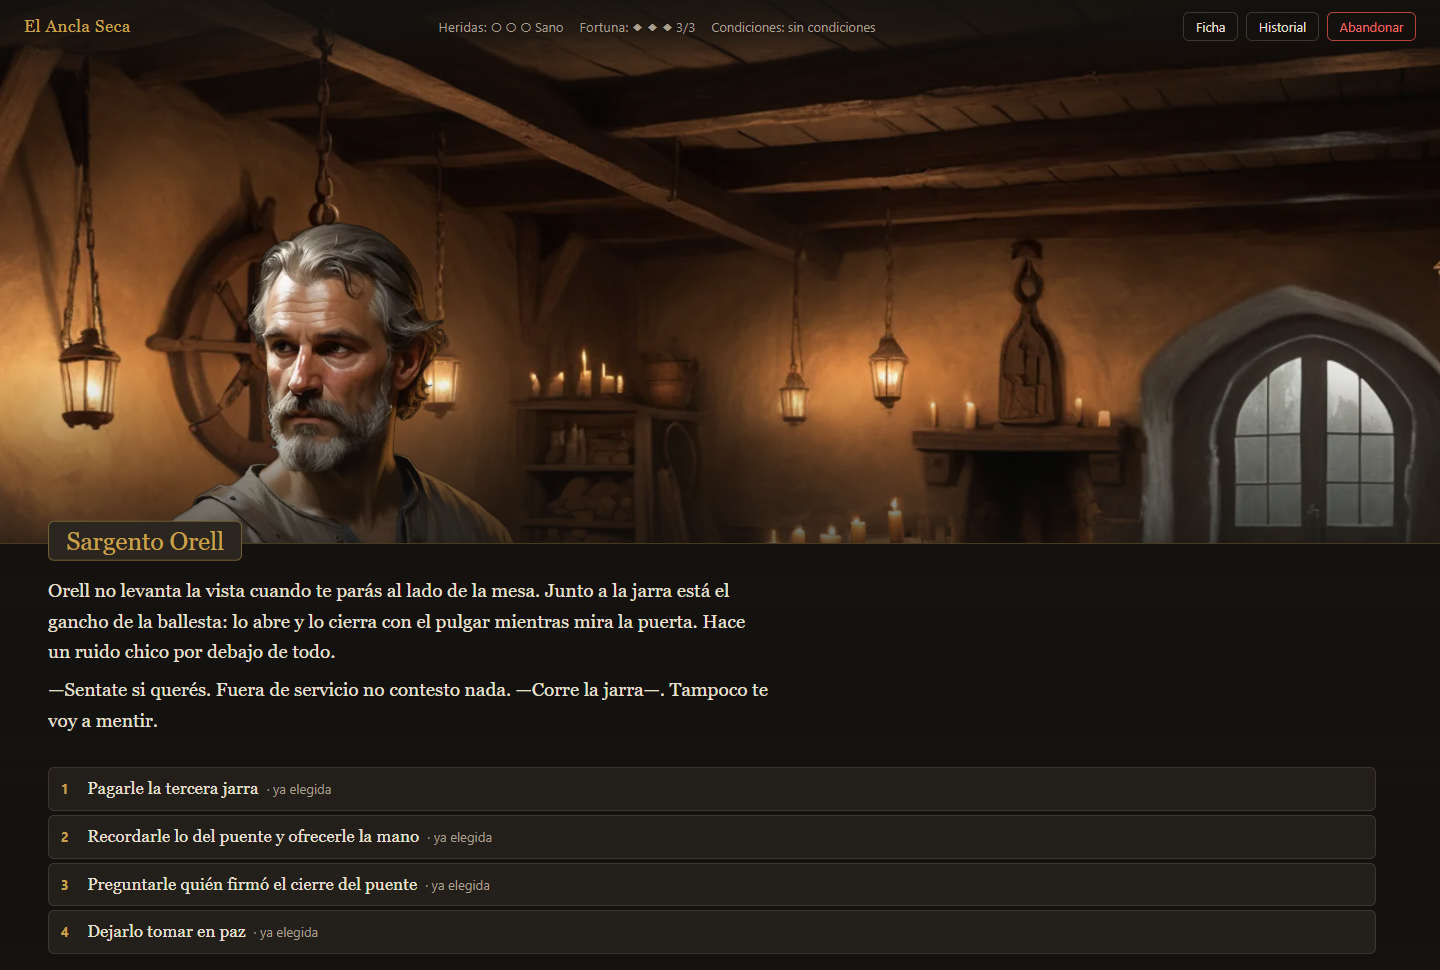
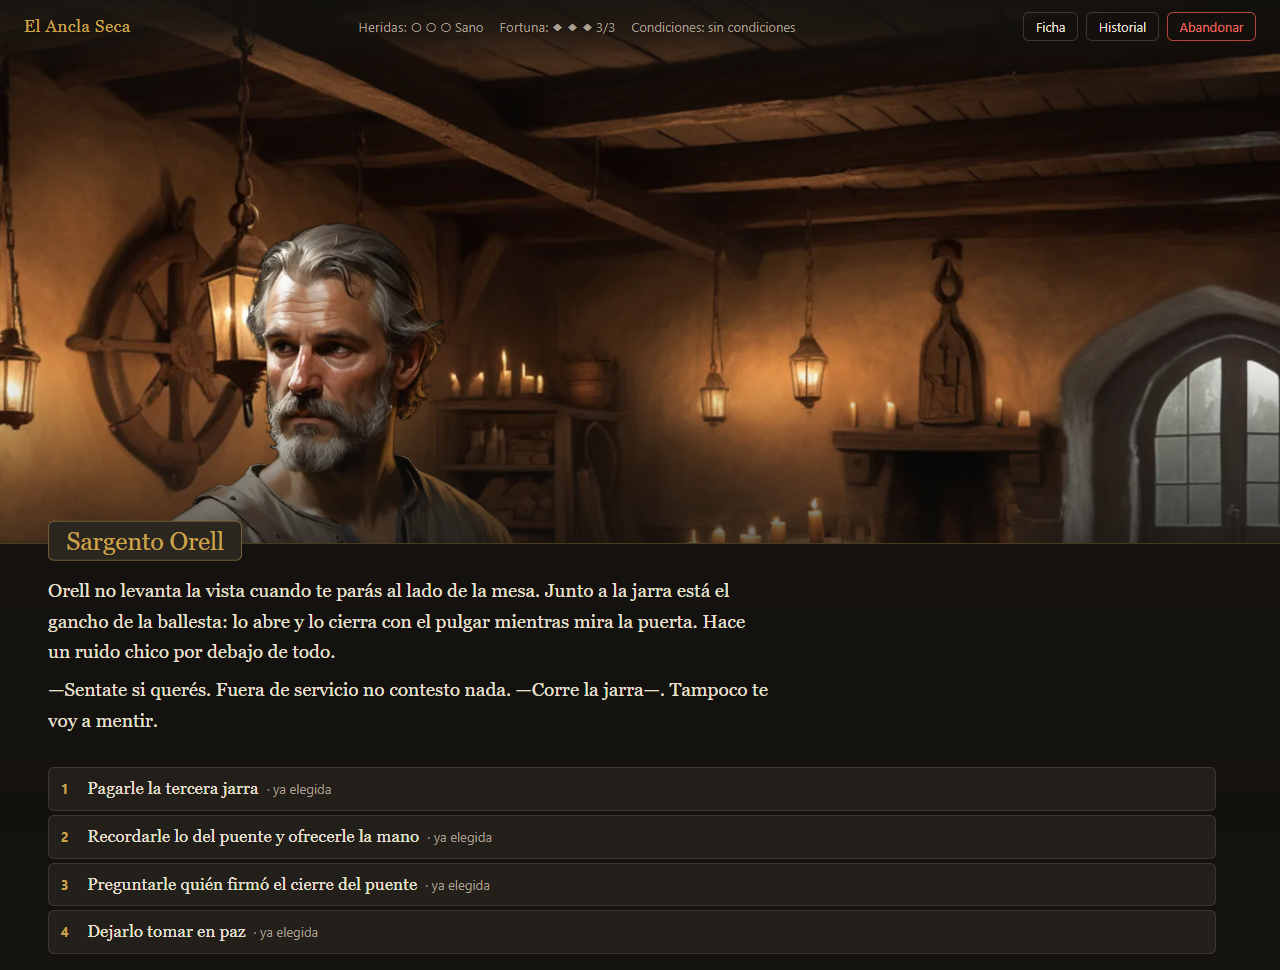
docs: los números de los comentarios, contados de nuevo
Oleada de cierre de la rama. Nueve de los once puntos eran datos escritos en
comentarios que no daban al recontarlos; los dos que cambian algo son la
captura del README y el test del botón sticky.

- `tools/captura.mts` decía que la foto salía a 1280×800 con `ANCHO = 1440` y
  `ALTO = 970` tres líneas arriba.
- `EscenaScreen.module.css` y `RollPanel.module.css` citaban la escena
  `a1_puente`, que no existe: se renombró a `p_puente` (biblia §0.3). Las
  mediciones eran buenas —siete opciones, un PNJ, dos tiradas—, el id no.
- La caja no dibuja un bloque sino un TRAMO (desenlace + escena) desde la tarea
  3, así que `TextColumn.tsx`, su test y la nota del spec pasan a decir el del
  tramo: 217 palabras, `c1_cuerpo.darle_el_ultimo_rito` (44) → `c1_acusacion`
  (173), medidas con `contar(textoBase(...))` de `tools/lib/lint/texto.ts`, que
  es la regla con la que mide todo lo demás en este repo. Queda anotado el techo
  (227, variante más larga por párrafo) y el piso (205), y que las cuatro
  escenas `ending` no cuentan porque ahí el store rutea a `FinScreen`.
- El mismo archivo decía 9.809 palabras de desenlaces; con esa misma regla son
  9.820 (9.822 por la variante más larga). No estaba en la consigna: apareció
  al recontar el de al lado y se corrige con él.
- `EscenaScreen.tsx` decía "381 bloques … y finales". Con los finales adentro
  son 385 = 46 escenas + 335 desenlaces con texto + 4 epílogos; 381 es la cuenta
[…]

diff --git a/src/ui/screens/EscenaScreen.module.css b/src/ui/screens/EscenaScreen.module.css
@@ -6,8 +6,11 @@
    texto se apoya abajo, a todo el ancho, con una placa que nombra a quien habla. Las
    proporciones de Ren'Py (el motor estándar del género) sobre 1920×1080 son caja de 278 px
    —el 26 % del alto—, diálogo de 33 px y nombre de 45 px, o sea 1,36× el diálogo. Acá la caja
-   va bastante más alta (44 %) porque esta campaña tiene párrafos de hasta 160 palabras y con
-   el 26 % habría que scrollear en todas las escenas para llegar a las opciones.
+   va bastante más alta (44 %), y lo que lo justifica no es el párrafo sino el TRAMO: la caja
+   dibuja lo que escribió el último paso —desenlace más escena— y el más largo de la campaña
+   son 217 palabras (ver la cuenta en `TextColumn.tsx`). El párrafo suelto más largo, para
+   comparar, son 64. Con el 26 % habría que scrollear en todas las escenas para llegar a las
+   opciones.
 
    Todo hijo de `.pantalla` es absoluto y se apila por `z-index`: fondo y sprite (0) → velo (1)
    → caja (2) → cromo (3). El sprite comparte capa con el fondo, DEBAJO del velo, y eso es a
@@ -215,7 +218,7 @@
 
    Con una sola región (el texto y las opciones scrolleando juntos, que es como venía) pasa
    esto: la caja tiene un alto fijo de 352 px en 1280×800, y una encrucijada del Vado —medida
-   en el navegador, `a1_puente` con el sargento— llega a SIETE opciones con sus chips y sus
+   en el navegador, `p_puente` con el sargento— llega a SIETE opciones con sus chips y sus
    probabilidades, 429 px, más que la caja entera. Apenas el revelado termina, el autoscroll
    trae las opciones y empuja toda la prosa fuera del recorte: el jugador elige mirando una
    lista y ni una línea de lo que acaba de leer. Es justo lo contrario de una novela visual,
@@ -289,7 +292,11 @@
    apretar. Por eso también deja de ser transparente: el texto pasa por debajo.
 
    `z-index` sobre el texto que scrollea, y `--color-superficie-alta` de fondo para taparlo (la
-   caja ya no es `--color-superficie`: sobre ella un botón de ese color desaparecería). */
+   caja ya no es `--color-superficie`: sobre ella un botón de ese color desaparecería).
+
+   El `position: sticky` y el `top: 0` de acá abajo están fijados por un test —lee esta misma
+   regla del archivo, en `tests/ui/saltar-leido.test.tsx`—, así que sacarlos rompe la suite en
+   vez de romper el juego en la segunda escena. */
 .saltarLeido {
   position: sticky;
   top: 0;
@@ -353,8 +360,9 @@
 
      `bottom: 46%` contra una caja que empieza al 58 %: el recorte se mete 12 puntos detrás del
      borde de la hoja —que es el "anclado al borde de la hoja" del diseño— y deja la cara en la
-     franja de arte. Se queda en poco más de la mitad del ancho de la pantalla; más alto y el
-     fondo desaparece detrás del personaje. */
+     franja de arte. Con `height: 30%` y el `aspect-ratio: 3 / 4` de la regla base, a 375×812 el
+     hueco mide 244 px de alto por 183 de ancho: **el 48,7 % del ancho de la pantalla**, un poco
+     menos de la mitad. Más alto y el fondo desaparece detrás del personaje. */
   .sprite {
     left: auto;
     right: var(--esp-2);

diff --git a/src/ui/components/TextColumn.tsx b/src/ui/components/TextColumn.tsx
@@ -79,7 +79,7 @@ export function Entrada({ entry, revelado, conPlaca = false }: EntradaProps) {
  * opción no queda NUNCA último: `choose` y `commitRoll` apilan el 'outcome' y en la misma acción
  * llaman a `enter()`, que apila enseguida la escena nueva (`src/engine/resolve.ts`). Con la regla
  * literal, toda la prosa de desenlaces se salteaba la pantalla y aparecía solo en el historial:
- * contados sobre la campaña publicada, **335 de 344 desenlaces tienen texto, 9.809 palabras** —o
+ * contados sobre la campaña publicada, **335 de 344 desenlaces tienen texto, 9.820 palabras** —o
  * sea, la consecuencia de cada cosa que el jugador decide—. Eso no es un scrollback, es el texto
  * en curso, y el propio plan lo dice cuando describe qué muestra la caja ("la prosa de la escena,
  * o el desenlace de la tirada recién resuelta").
@@ -121,11 +121,20 @@ export function TextColumn({ log, revelado }: TextColumnProps) {
     if (el !== null && typeof el.scrollIntoView === 'function') el.scrollIntoView({ block: 'end' });
     // El párrafo en curso crece con `caracteresVisibles`: sin seguirlo, el texto que se está
     // revelando queda por debajo del borde apenas supera el alto visible. Con el scrollback
-    // afuera de la caja eso pasa menos seguido que antes, pero sigue pasando y por lejos: el
-    // BLOQUE más largo de la campaña son 183 palabras (`c1_acusacion`, contadas sobre
-    // `campaign.scenes`; el párrafo suelto más largo son 64) y eso no entra en la caja ni a
-    // escala 1 — medido jugando a 375×812, la columna mide 174 px de alto con las opciones
-    // dibujadas y el contenido de una escena así pasa los 700.
+    // afuera de la caja eso pasa menos seguido que antes, pero sigue pasando y por lejos.
+    //
+    // La unidad es el TRAMO, que es lo que esta caja dibuja (ver `entradasDelUltimoPaso`), no un
+    // bloque suelto. El tramo más largo que puede caer acá son 217 palabras:
+    // `c1_cuerpo.darle_el_ultimo_rito` (44) → `c1_acusacion` (173). Medido sobre `campaign.scenes`
+    // con `contar(textoBase(...))` de `tools/lib/lint/texto.ts`, que es la regla con la que mide
+    // todo lo demás en este repo: una variante por párrafo, la base —la última, la que no lleva
+    // `when`—. Tomándole a cada párrafo su variante MÁS LARGA el techo es 227; el piso, 205. (Las
+    // cuatro escenas `ending` son más largas que cualquiera de estas, pero no cuentan: al entrar
+    // en una, el store rutea a `FinScreen` y esta caja no las dibuja nunca.)
+    //
+    // Y eso no entra en la caja ni a escala 1 — medido jugando a 375×812, la columna mide 174 px
+    // de alto con las opciones dibujadas y el contenido de un tramo así pasa los 700. El párrafo
+    // suelto más largo de la campaña, para comparar, son 64 palabras.
     //
     // La dependencia es la IDENTIDAD de `ultima` y no `log.length` (que era lo que había): el
     // motor recorta el log a `LIMITS.maxLog`, así que pasado ese tope cada entrada nueva empuja

diff --git a/src/ui/modales.ts b/src/ui/modales.ts
@@ -2,13 +2,13 @@
  * Cuántos modales hay abiertos ahora mismo, para que los atajos de teclado de la pantalla de
  * juego no sigan disparando por detrás de uno.
  *
- * Los tres listeners de la pantalla de juego (1-9 en `OptionList`, C en `EscenaScreen` y
- * Enter/Espacio del revelado) escuchan en `window`: un modal dibujado encima no los tapa, por
- * más `aria-modal="true"` que declare. Hasta la tarea 6 eso no se notaba porque la
- * confirmación de escena mortal era `window.confirm`, que bloquea el hilo; al reemplazarla por
- * `Dialogo` los atajos quedaron vivos debajo de la confirmación, y en un juego con muerte
- * permanente eso significa que un dígito ejecuta otra opción mientras el jugador está mirando
- * el "¿seguro?".
+ * Los tres listeners de la pantalla de juego (1-9 en `OptionList`, C y H en `EscenaScreen` —la
+ * Ficha y el Historial— y Enter/Espacio del revelado) escuchan en `window`: un modal dibujado
+ * encima no los tapa, por más `aria-modal="true"` que declare. Hasta la tarea 6 eso no se
+ * notaba porque la confirmación de escena mortal era `window.confirm`, que bloquea el hilo; al
+ * reemplazarla por `Dialogo` los atajos quedaron vivos debajo de la confirmación, y en un juego
+ * con muerte permanente eso significa que un dígito ejecuta otra opción mientras el jugador
+ * está mirando el "¿seguro?".
  *
  * Es un contador y no un booleano porque puede haber más de un modal a la vez (la Ficha
  * abierta y encima una confirmación): con un booleano, cerrar el de arriba diría que ya no hay

diff --git a/tests/ui/TextColumn.test.tsx b/tests/ui/TextColumn.test.tsx
@@ -136,9 +136,11 @@ describe('TextColumn', () => {
    * Sin este test, borrar el efecto entero deja la suite verde — y es justo la línea que el plan
    * y el spec §3 dan por innecesaria ("el autoscroll de la columna deja de hacer falta"), así que
    * es la combinación exacta para que alguien la borre de buena fe. Sigue haciendo falta: el
-   * bloque más largo de la campaña son 183 palabras y la columna mide 174 px de alto a 375×812
-   * con las opciones dibujadas, así que sin seguir al texto el carácter que se está tipeando cae
-   * abajo del borde. De paso, `.saltarLeido` es `position: sticky` PORQUE esta columna scrollea.
+   * tramo más largo que esta caja puede dibujar son 217 palabras (`c1_cuerpo.darle_el_ultimo_rito`
+   * → `c1_acusacion`; la cuenta y con qué regla se midió están en `TextColumn.tsx`) y la columna
+   * mide 174 px de alto a 375×812 con las opciones dibujadas, así que sin seguir al texto el
+   * carácter que se está tipeando cae abajo del borde. De paso, `.saltarLeido` es
+   * `position: sticky` PORQUE esta columna scrollea, y eso lo fija `tests/ui/saltar-leido.test.tsx`.
    */
   it('sigue al texto que se revela: trae el ancla del final en cada carácter', () => {
     const vistos = espiarScrollIntoView();

diff --git a/src/ui/screens/EscenaScreen.tsx b/src/ui/screens/EscenaScreen.tsx
@@ -70,9 +70,9 @@ function spriteIdDe(campaign: Campaign, npcId: string): string {
  * `display: none`, así que un lector de pantalla sigue recibiendo "Orell: …" y el efecto es
  * puramente visual). Sacar la placa en una entrada `[Orell habla, narración]` dejaría ese
  * diálogo **visualmente sin atribución**: el jugador lee una línea entrecomillada y no hay nada
- * en pantalla que diga quién la dijo. Contados sobre la campaña `vado` publicada (381 bloques de
- * texto entre escenas, desenlaces de opción y de banda, y finales): **14 bloques** tienen un
- * párrafo con hablante seguido de narración, y en **13** de ellos el bloque TERMINA en narración
+ * en pantalla que diga quién la dijo. Contados sobre la campaña `vado` publicada (385 bloques de
+ * texto: 46 escenas + 335 desenlaces de opción y de banda con texto + 4 epílogos): **14 bloques**
+ * tienen un párrafo con hablante seguido de narración, y en **13** el bloque TERMINA en narración
  * — o sea, 13 diálogos que quedarían huérfanos en pantalla. Ren'Py también deja la placa puesta
  * entre líneas del mismo hablante.
  *

diff --git a/src/ui/teclado.ts b/src/ui/teclado.ts
@@ -1,8 +1,8 @@
 /**
  * Si el foco está en un campo de texto (o contenteditable): ahí una tecla de acceso rápido
- * de una sola letra o dígito (1-9 en `OptionList`, C en `EscenaScreen`) no tiene que disparar
- * nada, porque el jugador está escribiendo, no jugando. Compartida por todos los listeners
- * de teclado de la pantalla de juego para que la regla viva en un solo lugar.
+ * de una sola letra o dígito (1-9 en `OptionList`, C y H en `EscenaScreen`) no tiene que
+ * disparar nada, porque el jugador está escribiendo, no jugando. Compartida por todos los
+ * listeners de teclado de la pantalla de juego para que la regla viva en un solo lugar.
  */
 export function esCampoDeTexto(target: EventTarget | null): boolean {
   return (

diff --git a/src/ui/components/Parrafos.tsx b/src/ui/components/Parrafos.tsx
@@ -21,8 +21,8 @@ export interface ParrafosProps {
    * dentro de la caja de la escena. Solo ahí un párrafo se marca `data-hablante="placa"`, que es
    * la marca que `TextColumn.module.css` esconde de la vista; todos los demás quedan en
    * `"propio"` y conservan su prefijo. Lo pone `TextColumn`, que es quien sabe cuál entrada es
-   * la última; `FinScreen` y el futuro cajón de historial no lo pasan y por eso nunca pierden
-   * un prefijo, sin depender de qué valor tenga el atributo.
+   * la última; `FinScreen` y el cajón del `Historial` no lo pasan y por eso nunca pierden un
+   * prefijo, sin depender de qué valor tenga el atributo.
    */
   conPlaca?: boolean;
 }

diff --git a/src/ui/components/RollPanel.module.css b/src/ui/components/RollPanel.module.css
@@ -2,7 +2,7 @@
    criterio que ellas: translúcido, para que se lea como parte de la caja y no como una tarjeta
    apilada encima, y apretado, porque el alto de la caja es fijo.
 
-   Lo apretado no es estética: medido jugando la tirada de `a1_puente`, el panel suelto medía
+   Lo apretado no es estética: medido jugando la tirada de `p_puente`, el panel suelto medía
    277 px contra los 182 que la región de acciones le daba, así que al asentarse los dados el
    foco saltaba a "Continuar" y el scroll se llevaba puesta la línea del objetivo —justo la que
    dice contra qué se tiró— y la mitad de los dados.

diff --git a/tests/ui/Parrafos.test.tsx b/tests/ui/Parrafos.test.tsx
@@ -67,7 +67,7 @@ describe('Parrafos', () => {
 
   /**
    * `conPlaca` es lo que decide si ALGÚN prefijo se puede esconder, y por defecto está apagado.
-   * Es la garantía de `FinScreen` y del futuro cajón de historial: ahí no hay placa del hablante,
+   * Es la garantía de `FinScreen` y del cajón del `Historial`: ahí no hay placa del hablante,
    * así que el prefijo es la única pista de quién habla y no puede perderse. Y no depende de qué
    * valor tenga el atributo —depende de que `"placa"` no aparezca nunca—, que es lo que lo hace
    * seguro cuando alguien reutilice `Parrafos` en otra pantalla.

diff --git a/docs/superpowers/specs/2026-09-13-interfaz-de-novela-visual-design.md b/docs/superpowers/specs/2026-09-13-interfaz-de-novela-visual-design.md
@@ -84,7 +84,7 @@ Hoy la columna acumula **toda la partida** y se scrollea. Ninguna novela visual 
 > **Nota de implementación (13 de septiembre de 2026).** Las dos viñetas de arriba se escribieron antes de implementar y **dos de sus afirmaciones resultaron falsas al llevarlas al código**. El spec queda como está —está aprobado y es el registro de lo que se decidió—; esto dice qué se encontró y con qué quedó reemplazado.
 >
 > 1. **"La caja muestra la última entrada del log" no servía.** El desenlace de una opción **nunca queda último**: `choose()` y `commitRoll()` (`src/engine/resolve.ts`) apilan la entrada `'outcome'` y en la misma acción llaman a `enter()`, que apila enseguida la entrada `'scene'` de la escena nueva; el único caso en que el desenlace queda último es cuando la partida termina ahí, y ahí la app ya se fue a `FinScreen`. Con la regla literal, toda la prosa de desenlaces se salteaba la pantalla y solo se podía leer abriendo el historial: contados sobre la campaña publicada, **335 de 344 desenlaces tienen texto, ~9.800 palabras**. La regla que quedó es **lo que escribió el último paso del jugador**: el tramo final de prosa del log, cortado hacia atrás en el primer `'choice'` o `'roll'` — en la práctica, el desenlace más la escena que abrió, o la escena sola. Está en `entradasDelUltimoPaso`, en `src/ui/components/TextColumn.tsx`, con la cuenta escrita al lado.
-> 2. **"El autoscroll de la columna deja de hacer falta" tampoco.** Con el scrollback afuera de la caja la columna scrollea menos seguido, pero scrollea igual: el bloque más largo de la campaña son 183 palabras (`c1_acusacion`) y la columna mide 174 px de alto a 375×812 con las opciones dibujadas. Sin el autoscroll, el carácter que se está tipeando cae abajo del borde, y además "Saltar lo leído" es `position: sticky` **porque** esa columna scrollea. El autoscroll se conservó y ahora tiene un test propio.
+> 2. **"El autoscroll de la columna deja de hacer falta" tampoco.** Con el scrollback afuera de la caja la columna scrollea menos seguido, pero scrollea igual: el tramo más largo que la caja puede dibujar son **217 palabras** (`c1_cuerpo.darle_el_ultimo_rito` → `c1_acusacion`, medido con `contar(textoBase(...))` de `tools/lib/lint/texto.ts`; 227 si a cada párrafo se le toma su variante más larga) y la columna mide 174 px de alto a 375×812 con las opciones dibujadas. Sin el autoscroll, el carácter que se está tipeando cae abajo del borde, y además "Saltar lo leído" es `position: sticky` **porque** esa columna scrollea. El autoscroll se conservó y ahora tiene un test propio.
 >
 > Lo que sí se cumplió tal cual: `useRevelado` y el salto de lo leído no se tocaron y sus tests pasaron sin una sola modificación.
 

diff --git a/README.md b/README.md
@@ -12,7 +12,7 @@ Hoy hay una sola campaña, **"El vado de Aldamar"**: 46 escenas, cuatro finales 
 
 Una escena se lee como una novela visual: el arte ocupa la pantalla entera, el personaje con el que estás hablando está parado adentro, y encima van la placa con su nombre, el texto y las opciones. Arriba, el lugar, las heridas, la Fortuna y las condiciones; lo que pasó antes se relee en **Historial**.
 
-![Una escena de "El vado de Aldamar": la taberna del Ancla Seca ocupa toda la pantalla y el Sargento Orell, recortado, está parado junto a su mesa; encima del arte van la placa con su nombre, la línea que acaba de decir y las cuatro opciones de la escena](docs/captura-escena.png)
+![Una escena de "El vado de Aldamar": la taberna del Ancla Seca ocupa toda la pantalla —vigas, faroles encendidos, una rueda de timón en la pared— y a la izquierda, recortado sobre el arte, está el Sargento Orell del pecho para arriba, de barba gris y gambesón, mirando a un costado y hundiéndose detrás de la caja de texto; encima del arte van la placa con su nombre, la línea que acaba de decir y las cuatro opciones de la escena](docs/captura-escena.png)
 
 La partida se guarda sola en el navegador (no en un servidor): si cambiás de navegador, de máquina, o borrás los datos del sitio, la perdés. Para llevarla con vos, en **Opciones** hay botones para exportar el guardado a un archivo y para importarlo de vuelta.
 
